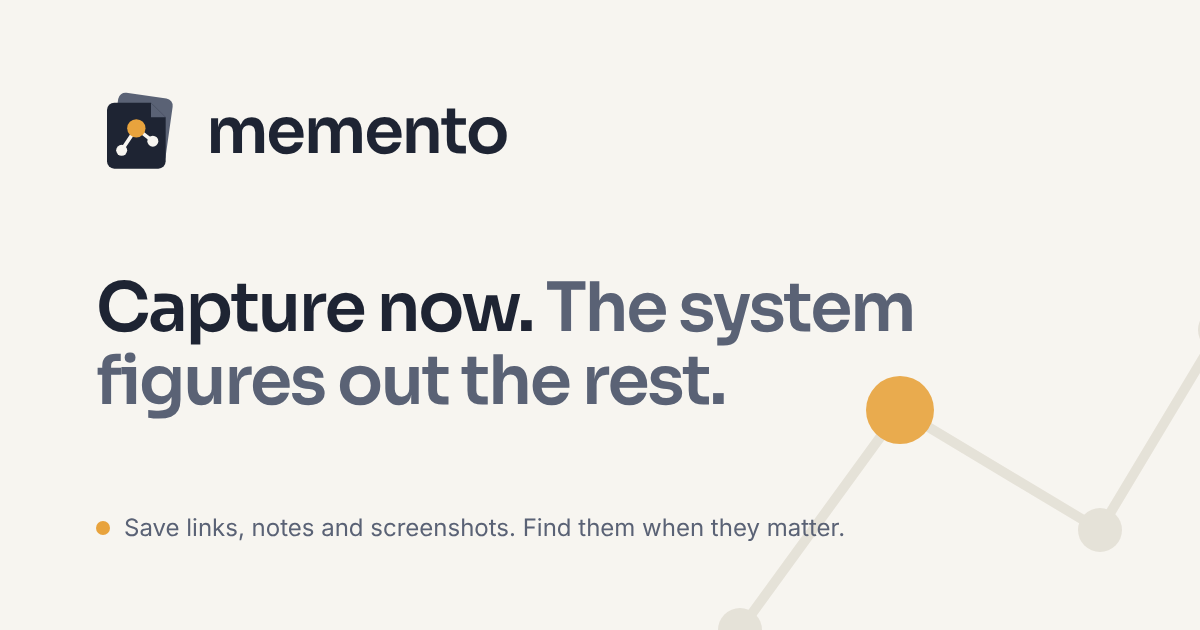
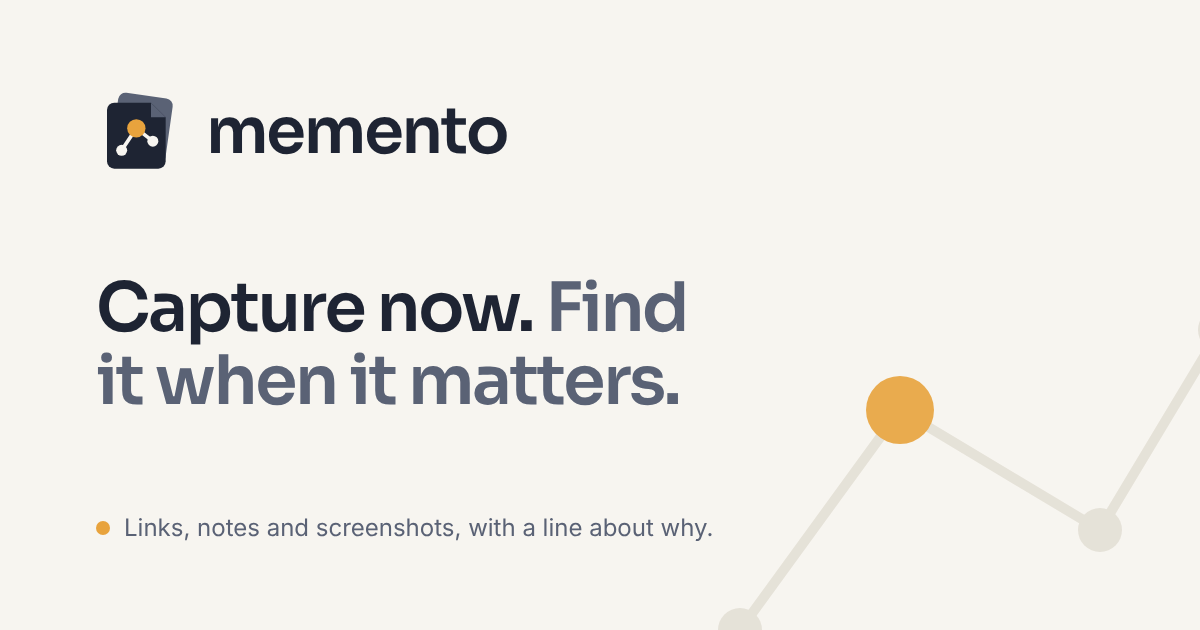
chore(copy): drop the AI tagline from metadata, manifest and OG image
"The system figures out the rest" promised automation the app no longer
has. Use "Capture now. Find it when it matters." everywhere, matching the
landing page, and re-render og-image.png.

Claude-Session: https://claude.ai/code/session_015Faq5gQoXjyJkDYVifMtzt

Changed region(s): [[0.0925, 0.5429, 0.6167, 0.6635], [0.0925, 0.8143, 0.7092, 0.8746], [0.4317, 0.4524, 0.7708, 0.5429]]

diff --git a/brand/design-system.html b/brand/design-system.html
@@ -601,7 +601,7 @@ html.rm .rm-note { display:block; }
   <!-- ============ INTRO ============ -->
   <section class="hero" aria-labelledby="intro-h">
     <span class="eyebrow">Memento · Phase 1 review</span>
-    <h1 id="intro-h">Capture now. The system figures out the rest.</h1>
+    <h1 id="intro-h">Capture now. Find it when it matters.</h1>
     <p>Calm ink-and-paper surfaces with one warm accent. <strong>Ink is for actions.</strong> <strong style="color:var(--recall-text)">Amber is for recall and AI</strong>. It shows when something was understood, connected or resurfaced. Amber stays rare, so it keeps meaning.</p>
     <div class="principles">
       <div class="principle"><b>One gesture to capture</b><span>Never ask where something goes.</span></div>
@@ -1014,7 +1014,7 @@ html.rm .rm-note { display:block; }
       <div class="panel state">
         <svg width="72" height="72" aria-hidden="true"><use href="#mark"/></svg>
         <h3>Nothing here yet</h3>
-        <p>Paste a link, drop a screenshot, or jot a thought. Memento figures out the rest.</p>
+        <p>Paste a link, drop a screenshot, or jot a thought.</p>
         <div class="row" style="justify-content:center"><button class="btn btn-primary" type="button"><svg class="icon" aria-hidden="true"><use href="#i-plus"/></svg>Capture your first memory</button><button class="btn btn-ghost" type="button">Import from Pocket or Raindrop</button></div>
       </div>
       <div class="panel stack" aria-busy="true" aria-label="Loading memories">

diff --git a/brand/preview.html b/brand/preview.html
@@ -149,7 +149,7 @@
       </div>
     </div>
     <div class="panel" style="margin-top:16px;display:grid;gap:12px">
-      <a href="og-image.png" download><img src="og-image.png" width="1200" height="630" alt="Social preview: memento, Capture now. The system figures out the rest." style="width:100%;height:auto;border-radius:10px;border:1px solid var(--line);display:block"></a>
+      <a href="og-image.png" download><img src="og-image.png" width="1200" height="630" alt="Social preview: memento, Capture now. Find it when it matters." style="width:100%;height:auto;border-radius:10px;border:1px solid var(--line);display:block"></a>
       <span class="cap" style="text-align:left">og-image.png · 1200×630 · source og-image.html · re-render all PNGs with <code>node brand/render-assets.js</code></span>
     </div>
   </section>

diff --git a/src/app/layout.tsx b/src/app/layout.tsx
@@ -9,12 +9,12 @@ const siteUrl = process.env.VERCEL_PROJECT_PRODUCTION_URL
 export const metadata: Metadata = {
   metadataBase: new URL(siteUrl),
   title: { default: "memento", template: "%s · memento" },
-  description: "Capture now. The system figures out the rest.",
+  description: "Capture now. Find it when it matters.",
   applicationName: "memento",
   appleWebApp: { capable: true, title: "memento", statusBarStyle: "default" },
   formatDetection: { telephone: false },
   robots: { index: false, follow: false },
-  openGraph: { title: "memento", description: "Capture now. The system figures out the rest.", images: "/og-image.png" },
+  openGraph: { title: "memento", description: "Capture now. Find it when it matters.", images: "/og-image.png" },
 };
 
 export const viewport: Viewport = {

diff --git a/brand/og-image.html b/brand/og-image.html
@@ -40,8 +40,8 @@
       </svg>
       <span class="wordmark">memento</span>
     </div>
-    <h1>Capture now. <em>The system figures out the rest.</em></h1>
-    <div class="foot"><span class="dot"></span>Save links, notes and screenshots. Find them when they matter.</div>
+    <h1>Capture now. <em>Find it when it matters.</em></h1>
+    <div class="foot"><span class="dot"></span>Links, notes and screenshots, with a line about why.</div>
   </div>
 </body>
 </html>

diff --git a/src/app/manifest.ts b/src/app/manifest.ts
@@ -4,7 +4,7 @@ export default function manifest(): MetadataRoute.Manifest {
   return {
     name: "memento",
     short_name: "memento",
-    description: "Capture now. The system figures out the rest.",
+    description: "Capture now. Find it when it matters.",
     start_url: "/memories",
     scope: "/",
     display: "standalone",
